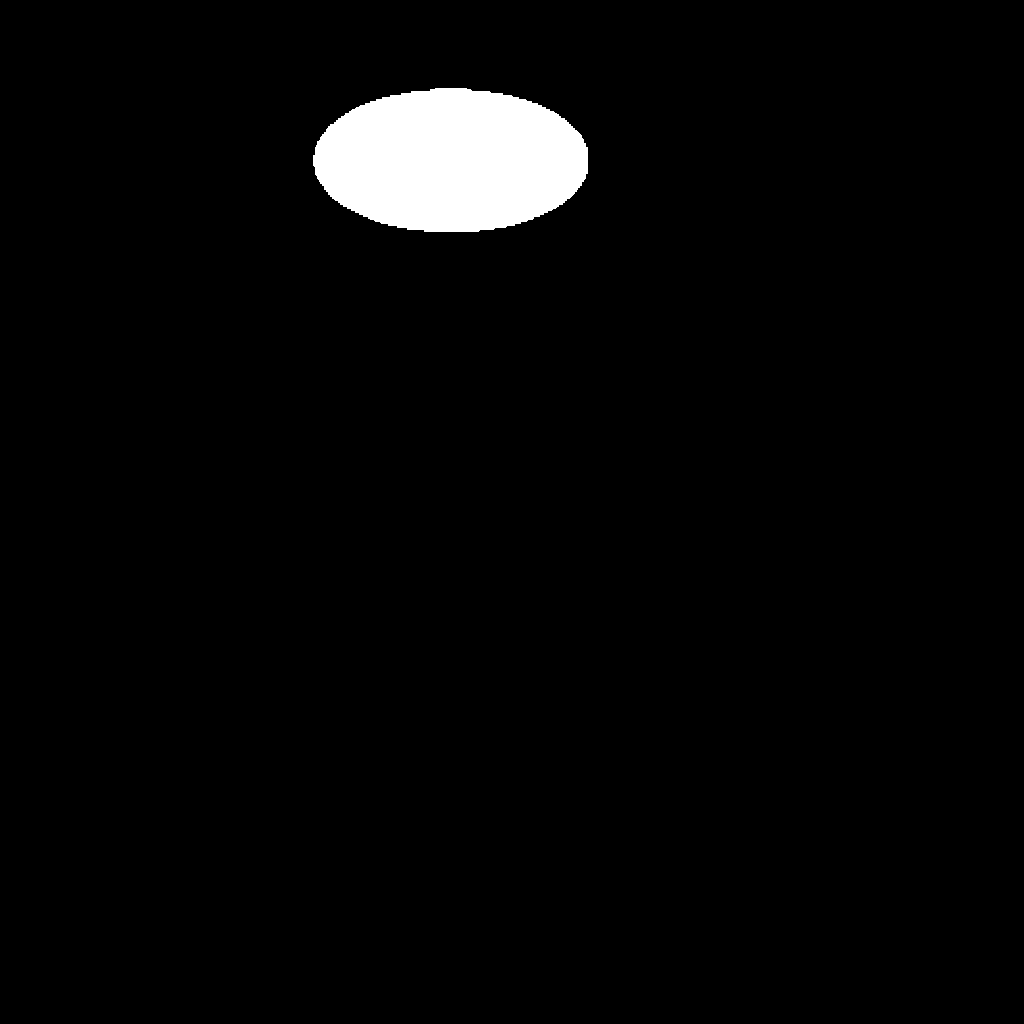
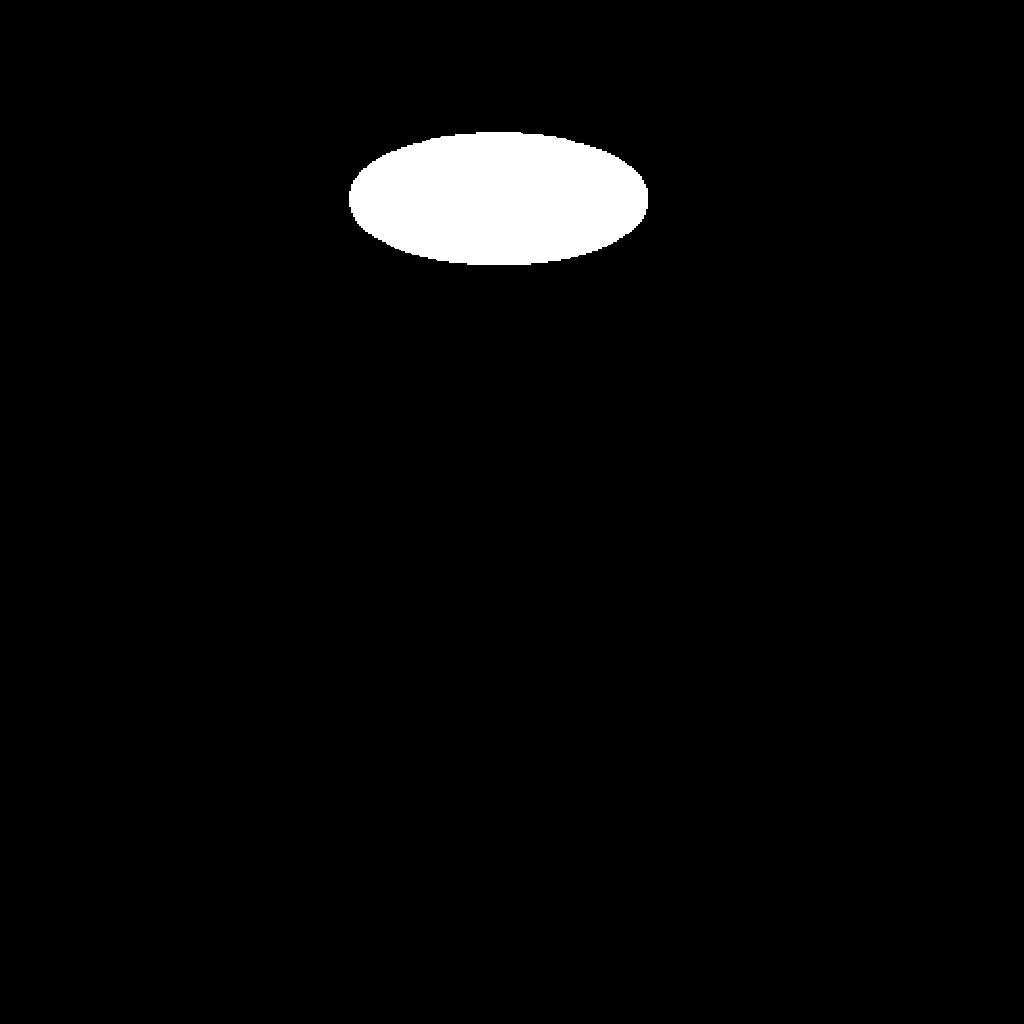
feat: Enhance image and mask resizing logic to maintain aspect ratio and add scaling factor logging

Changed region(s): [[0.2812, 0.0625, 0.6562, 0.2812]]

diff --git a/frontend/src/components/CanvasDisplay.tsx b/frontend/src/components/CanvasDisplay.tsx
@@ -285,7 +285,7 @@ export default function CanvasDisplay({
     const { width: originalWidth, height: originalHeight, scale } = originalImageRef.current;
     
     console.log(`Converting mask canvas ${canvas.width}x${canvas.height} to RGBA format`);
-    console.log(`Scaling mask from display size to original image size: ${originalWidth}x${originalHeight}`);
+    console.log(`Scaling mask from display size to original image size: ${originalWidth}x${originalHeight} (scale factor: ${scale})`);
     
     // Create a canvas at the original image dimensions
     const scaledCanvas = document.createElement('canvas');
@@ -295,10 +295,16 @@ export default function CanvasDisplay({
     if (!scaledCtx) return null;
     
     // Scale the mask to the original image dimensions
-    // We need to scale up the mask by 1/scale factor
+    // The display canvas is scaled down by 'scale', so we scale up by 1/scale
     const scaleUpFactor = 1 / scale;
+    
+    // Set up the transformation
+    scaledCtx.save();
     scaledCtx.scale(scaleUpFactor, scaleUpFactor);
+    
+    // Draw the mask canvas scaled up to original dimensions
     scaledCtx.drawImage(canvas, 0, 0);
+    scaledCtx.restore();
     
     // Now get the image data from the scaled canvas
     const imageData = scaledCtx.getImageData(0, 0, originalWidth, originalHeight);

diff --git a/backend/services/openai_service.py b/backend/services/openai_service.py
@@ -82,23 +82,64 @@ class OpenAIService:
                             target_size = s
                             break
 
-                    # Resize image to square if not already
+                    # Resize image to square using padding instead of stretching
                     if orig_w != target_size or orig_h != target_size:
-                        img_obj = img_obj.resize((target_size, target_size))
+                        # Create a new square image with transparent background
+                        square_img = Image.new('RGBA', (target_size, target_size), (0, 0, 0, 0))
+                        
+                        # Calculate scaling to fit within target_size while maintaining aspect ratio
+                        scale = min(target_size / orig_w, target_size / orig_h)
+                        new_w = int(orig_w * scale)
+                        new_h = int(orig_h * scale)
+                        
+                        # Resize original image maintaining aspect ratio
+                        resized_img = img_obj.resize((new_w, new_h), Image.Resampling.LANCZOS)
+                        
+                        # Calculate position to center the image
+                        paste_x = (target_size - new_w) // 2
+                        paste_y = (target_size - new_h) // 2
+                        
+                        # Paste the resized image onto the square canvas
+                        square_img.paste(resized_img, (paste_x, paste_y))
+                        
                         buf = BytesIO()
-                        img_obj.save(buf, format="PNG", optimize=True)
+                        square_img.save(buf, format="PNG", optimize=True)
                         png_image = buf.getvalue()
+                        
+                        logger.info(f"Image padded from {orig_w}x{orig_h} to {target_size}x{target_size}, "
+                                  f"content at ({paste_x},{paste_y}) size {new_w}x{new_h}")
 
                     width = height = target_size
 
                 # Resize mask to match if present
                 if png_mask:
                     with Image.open(BytesIO(png_mask)) as m_obj:
-                        if m_obj.size[0] != target_size or m_obj.size[1] != target_size:
-                            m_obj = m_obj.resize((target_size, target_size))
+                        mask_w, mask_h = m_obj.size
+                        if mask_w != target_size or mask_h != target_size:
+                            # Apply the same transformation to the mask as we did to the image
+                            square_mask = Image.new('RGBA', (target_size, target_size), (0, 0, 0, 255))  # Opaque background
+                            
+                            # Calculate scaling (should match image scaling)
+                            scale = min(target_size / mask_w, target_size / mask_h)
+                            new_mask_w = int(mask_w * scale)
+                            new_mask_h = int(mask_h * scale)
+                            
+                            # Resize mask maintaining aspect ratio
+                            resized_mask = m_obj.resize((new_mask_w, new_mask_h), Image.Resampling.LANCZOS)
+                            
+                            # Calculate position to center the mask (should match image positioning)
+                            paste_x = (target_size - new_mask_w) // 2
+                            paste_y = (target_size - new_mask_h) // 2
+                            
+                            # Paste the resized mask onto the square canvas
+                            square_mask.paste(resized_mask, (paste_x, paste_y))
+                            
                             mbuf = BytesIO()
-                            m_obj.save(mbuf, format="PNG", optimize=True)
+                            square_mask.save(mbuf, format="PNG", optimize=True)
                             png_mask = mbuf.getvalue()
+                            
+                            logger.info(f"Mask padded from {mask_w}x{mask_h} to {target_size}x{target_size}, "
+                                      f"content at ({paste_x},{paste_y}) size {new_mask_w}x{new_mask_h}")
             else:  # pragma: no cover - Pillow not installed
                 # This case should ideally not happen if frontend validates
                 # but as a fallback, try to get dimensions if possible